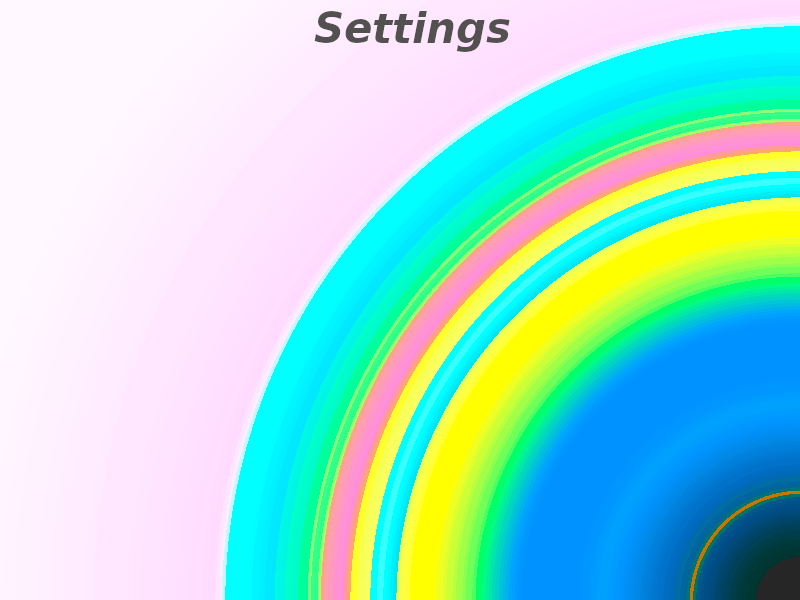
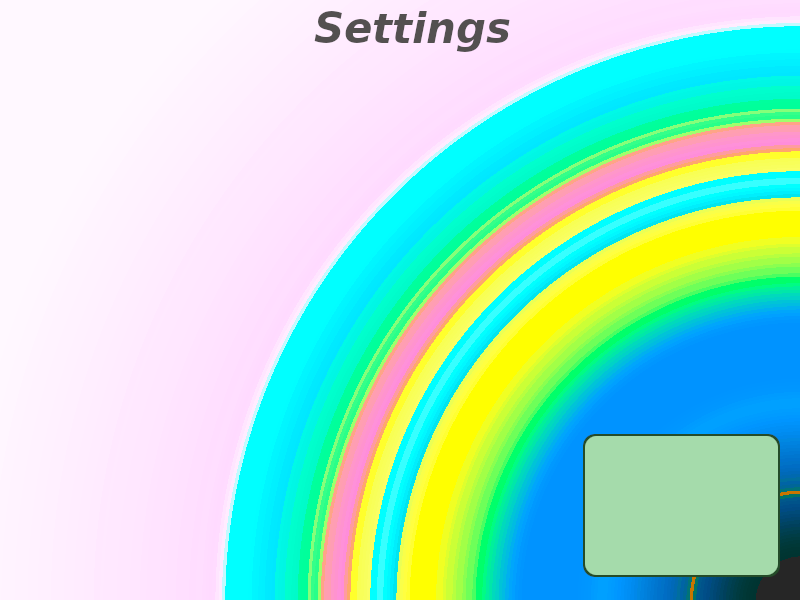
Implement audio settings menu

Changed region(s): [[0.7188, 0.72, 1.0, 0.96]]

diff --git a/src/Game/States/SettingsMenu.cpp b/src/Game/States/SettingsMenu.cpp
@@ -45,7 +45,12 @@ sf::VideoMode bestFullscreenMode() {
     return *best;
 }
 
+std::string volumeString() {
+    return "Volume: " + std::to_string(static_cast<int>(bl::audio::AudioSystem::getVolume())) + "%";
+}
+
 } // namespace
+
 using namespace bl::menu;
 using namespace core::input;
 
@@ -69,10 +74,15 @@ SettingsMenu::SettingsMenu(core::system::Systems& s)
 
     bgndTexture = textures.load(joinPath(Path, "background.png")).data;
     background.setTexture(*bgndTexture);
+    hint.setFont(font);
+    hint.setFillColor(sf::Color(65, 10, 0));
+    hint.setCharacterSize(18);
+    hint.setPosition(590.f, 440.f);
 
     const auto makeBack = [this, &font]() {
         Item::Ptr bi = TextItem::create("Back", font, sf::Color::Black, FontSize);
         bi->getSignal(Item::Activated).willAlwaysCall(std::bind(&SettingsMenu::back, this));
+        bi->getSignal(Item::Selected).willAlwaysCall([this]() { setHint(""); });
         return bi;
     };
 
@@ -81,13 +91,22 @@ SettingsMenu::SettingsMenu(core::system::Systems& s)
     videoItem->getSignal(Item::Activated).willAlwaysCall([this]() {
         enterState(MenuState::VideoMenu);
     });
+    videoItem->getSignal(Item::Selected).willAlwaysCall([this]() {
+        setHint("Settings related to the Peoplemon window.");
+    });
     Item::Ptr audioItem = TextItem::create("Audio", font, sf::Color::Black, FontSize);
     audioItem->getSignal(Item::Activated).willAlwaysCall([this]() {
         enterState(MenuState::AudioMenu);
     });
+    audioItem->getSignal(Item::Selected).willAlwaysCall([this]() {
+        setHint("Settings related to music and sounds.");
+    });
     Item::Ptr controlsItem = TextItem::create("Controls", font, sf::Color::Black, FontSize);
     controlsItem->getSignal(Item::Activated).willAlwaysCall([this]() {
         enterState(MenuState::ControlsTopMenu);
+    });
+    controlsItem->getSignal(Item::Selected).willAlwaysCall([this]() {
+        setHint("Change your controls for both keyboard/mouse and controller.");
     });
 
     topMenu.setRootItem(videoItem);
@@ -105,13 +124,23 @@ SettingsMenu::SettingsMenu(core::system::Systems& s)
     windowModeDropdownItem->getSignal(Item::Activated).willAlwaysCall([this]() {
         onWindowModeOpen();
     });
+    windowModeDropdownItem->getSignal(Item::Selected).willAlwaysCall([this]() {
+        setHint("Set whether to be fullscreen or windowed.");
+    });
     fullscreenItem = TextItem::create("Fullscreen", font, sf::Color::Black, FontSize);
     fullscreenItem->getSignal(Item::Activated).willAlwaysCall([this]() {
         onWindowModeChange(true);
     });
+    fullscreenItem->getSignal(Item::Selected).willAlwaysCall([this]() {
+        setHint("The Peoplemon window will be fullscreen.");
+    });
     windowedItem = TextItem::create("Windowed", font, sf::Color::Black, FontSize);
     windowedItem->getSignal(Item::Activated).willAlwaysCall([this]() {
         onWindowModeChange(false);
+    });
+    windowedItem->getSignal(Item::Selected).willAlwaysCall([this]() {
+        setHint("The Peoplemon window will be a regular window that can be moved, resized, "
+                "minimized, etc.");
     });
     windowModeDropdownItem->addOption(fullscreenItem);
     windowModeDropdownItem->addOption(windowedItem);
@@ -121,6 +150,10 @@ SettingsMenu::SettingsMenu(core::system::Systems& s)
         sf::Color::White, sf::Color::Black, FontSizeF, 2.f, FontSizeF * 0.4f, false);
     vsyncItem->getSignal(Item::Activated).willAlwaysCall([this]() { onVsyncUpdate(); });
     vsyncItem->setChecked(systems.engine().settings().windowParameters().vsyncEnabled());
+    vsyncItem->getSignal(Item::Selected).willAlwaysCall([this]() {
+        setHint("Vsync limits the render rate to your monitor refresh rate to prevent tearing. "
+                "Graphics will be smoother but there may be input delay.");
+    });
 
     videoMenu.setRootItem(windowModeDropdownItem);
     videoMenu.addItem(videoLabel, windowModeDropdownItem.get(), Item::Top);
@@ -132,10 +165,21 @@ SettingsMenu::SettingsMenu(core::system::Systems& s)
     // Audio menu
     Item::Ptr audioLabel = TextItem::create("Audio Settings", font, LabelColor, LabelSize);
     audioLabel->setSelectable(false);
-    muteItem = TextItem::create("Mute", font, sf::Color::Black, FontSize);
-    // TODO - make toggle
-    volumeItem = TextItem::create("Volume", font, sf::Color::Black, FontSize);
-    // TODO - tie into qty select
+    muteItem = ToggleTextItem::create("Mute", font, sf::Color::Black, FontSize);
+    muteItem->setChecked(bl::audio::AudioSystem::getMuted());
+    muteItem->getSignal(Item::Activated).willAlwaysCall([this]() {
+        bl::audio::AudioSystem::setMuted(muteItem->isChecked());
+    });
+    muteItem->getSignal(Item::Selected).willAlwaysCall([this]() {
+        setHint("Enable and disable all sounds and music.");
+    });
+    volumeItem = TextItem::create(volumeString(), font, sf::Color::Black, FontSize);
+    volumeItem->getSignal(Item::Activated).willAlwaysCall([this]() {
+        enterState(MenuState::AudioSelectVolume);
+    });
+    volumeItem->getSignal(Item::Selected).willAlwaysCall([this]() {
+        setHint("Sets the volume of all sounds and music.");
+    });
 
     audioMenu.setRootItem(muteItem);
     audioMenu.addItem(audioLabel, muteItem.get(), Item::Top);
@@ -150,9 +194,15 @@ SettingsMenu::SettingsMenu(core::system::Systems& s)
     kbmItem->getSignal(Item::Activated).willAlwaysCall([this]() {
         enterState(MenuState::ControlsKBMMenu);
     });
+    kbmItem->getSignal(Item::Selected).willAlwaysCall([this]() {
+        setHint("Configure your controls when using keyboard and mouse.");
+    });
     Item::Ptr padItem = TextItem::create("Controller", font, sf::Color::Black, FontSize);
     padItem->getSignal(Item::Activated).willAlwaysCall([this]() {
         enterState(MenuState::ControlsPadMenu);
+    });
+    padItem->getSignal(Item::Selected).willAlwaysCall([this]() {
+        setHint("Configure your controls when using a controller.");
     });
 
     controlsTopMenu.setRootItem(kbmItem);
@@ -166,6 +216,9 @@ SettingsMenu::SettingsMenu(core::system::Systems& s)
             TextItem::create(ctrlString(ctrl, kbm), font, sf::Color::Black, SmallSize);
         item->getSignal(Item::Activated).willAlwaysCall([this, ctrl, kbm]() {
             startBindControl(kbm, ctrl);
+        });
+        item->getSignal(Item::Selected).willAlwaysCall([this]() {
+            setHint("Select to rebind this control.");
         });
         return item;
     };
@@ -245,6 +298,7 @@ void SettingsMenu::activate(bl::engine::Engine& engine) {
     engine.inputSystem().getActor().addListener(*this);
     engine.renderSystem().cameras().pushCamera(
         bl::render::camera::StaticCamera::create(background.getGlobalBounds()));
+    enterState(MenuState::TopMenu);
 }
 
 void SettingsMenu::deactivate(bl::engine::Engine& engine) {
@@ -259,6 +313,7 @@ void SettingsMenu::render(bl::engine::Engine& engine, float) {
     engine.window().clear();
 
     engine.window().draw(background);
+    engine.window().draw(hint);
     switch (state) {
     case MenuState::TopMenu:
         topMenu.render(engine.window());
@@ -270,8 +325,9 @@ void SettingsMenu::render(bl::engine::Engine& engine, float) {
         break;
 
     case MenuState::AudioSelectVolume:
-        // TODO - render qty entry
-        [[fallthrough]];
+        audioMenu.render(engine.window());
+        volumeEntry.render(engine.window());
+        break;
     case MenuState::AudioMenu:
         audioMenu.render(engine.window());
         break;
@@ -298,34 +354,47 @@ void SettingsMenu::render(bl::engine::Engine& engine, float) {
 void SettingsMenu::enterState(MenuState s) {
     state = s;
 
+    Menu* sm = nullptr;
+
     switch (state) {
     case MenuState::TopMenu:
         inputDriver.drive(&topMenu);
+        sm = &topMenu;
         break;
     case MenuState::VideoMenu:
         inputDriver.drive(&videoMenu);
+        sm = &videoMenu;
         break;
     case MenuState::VideoSelectMode:
         // nothing
         break;
     case MenuState::AudioMenu:
         inputDriver.drive(&audioMenu);
+        sm = &audioMenu;
         break;
     case MenuState::AudioSelectVolume:
-        // TODO
+        volumeEntry.configure(0, 100, static_cast<int>(bl::audio::AudioSystem::getVolume()));
+        volumeEntry.setPosition({volumeItem->getPosition().x + volumeItem->getSize().x -
+                                     volumeEntry.getSize().x + audioMenu.getBounds().left + 20.f,
+                                 volumeItem->getPosition().y + audioMenu.getBounds().top + 20.f});
         break;
     case MenuState::ControlsTopMenu:
         inputDriver.drive(&controlsTopMenu);
+        sm = &controlsTopMenu;
         break;
     case MenuState::ControlsKBMMenu:
         inputDriver.drive(&controlsKbmMenu);
+        sm = &controlsKbmMenu;
         break;
     case MenuState::ControlsPadMenu:
         inputDriver.drive(&controlsPadMenu);
+        sm = &controlsPadMenu;
         break;
     default:
         break;
     }
+
+    if (sm != nullptr) { sm->setSelectedItem(const_cast<Item*>(sm->getSelectedItem())); }
 }
 
 void SettingsMenu::close() { systems.engine().popState(); }
@@ -338,7 +407,32 @@ bool SettingsMenu::observe(const bl::input::Actor&, unsigned int activatedContro
     else {
         switch (state) {
         case MenuState::AudioSelectVolume:
-            // TODO
+            switch (activatedControl) {
+            case Control::MoveUp:
+                volumeEntry.up(1, eventTriggered);
+                bl::audio::AudioSystem::setVolume(static_cast<float>(volumeEntry.curQty()));
+                break;
+            case Control::MoveRight:
+                volumeEntry.up(10, eventTriggered);
+                bl::audio::AudioSystem::setVolume(static_cast<float>(volumeEntry.curQty()));
+                break;
+            case Control::MoveDown:
+                volumeEntry.down(1, eventTriggered);
+                bl::audio::AudioSystem::setVolume(static_cast<float>(volumeEntry.curQty()));
+                break;
+            case Control::MoveLeft:
+                volumeEntry.down(10, eventTriggered);
+                bl::audio::AudioSystem::setVolume(static_cast<float>(volumeEntry.curQty()));
+                break;
+            case Control::Interact:
+                if (eventTriggered) {
+                    volumeItem->getTextObject().setString(volumeString());
+                    back();
+                }
+                break;
+            default:
+                break;
+            }
             break;
         case MenuState::ControlsBindingControl:
             // TODO
@@ -446,6 +540,11 @@ void SettingsMenu::onVsyncUpdate() {
     bl::engine::Settings::WindowParameters params = systems.engine().settings().windowParameters();
     params.withVSyncEnabled(vsyncItem->isChecked());
     systems.engine().updateExistingWindow(params);
+}
+
+void SettingsMenu::setHint(const std::string& m) {
+    hint.setString(m);
+    bl::interface::wordWrap(hint, 183.f);
 }
 
 } // namespace state

diff --git a/include/Game/States/SettingsMenu.hpp b/include/Game/States/SettingsMenu.hpp
@@ -82,6 +82,7 @@ private:
     MenuState state;
     bl::resource::Resource<sf::Texture>::Ref bgndTexture;
     sf::Sprite background;
+    sf::Text hint;
 
     core::input::MenuDriver inputDriver;
     bl::menu::Menu topMenu;
@@ -94,8 +95,9 @@ private:
     bl::menu::ToggleTextItem::Ptr vsyncItem;
 
     bl::menu::Menu audioMenu;
-    bl::menu::TextItem::Ptr muteItem;
+    bl::menu::ToggleTextItem::Ptr muteItem;
     bl::menu::TextItem::Ptr volumeItem;
+    core::system::hud::QtyEntry volumeEntry;
 
     bl::menu::Menu controlsTopMenu;
 
@@ -122,6 +124,7 @@ private:
     SettingsMenu(core::system::Systems& systems);
 
     void enterState(MenuState state);
+    void setHint(const std::string& message);
 
     void onWindowModeOpen();
     bool isFullscreen() const;

diff --git a/src/Core/Systems/HUD/QtyEntry.cpp b/src/Core/Systems/HUD/QtyEntry.cpp
@@ -66,12 +66,14 @@ int QtyEntry::curQty() const { return qty; }
 void QtyEntry::up(int q, bool ignore) {
     if (rateLimit(ignore)) return;
     qty = std::min(maxQty, qty + q);
+    bl::audio::AudioSystem::playOrRestartSound(Properties::MenuMoveSound());
     updateText();
 }
 
 void QtyEntry::down(int q, bool ignore) {
     if (rateLimit(ignore)) return;
     qty = std::max(minQty, qty - q);
+    bl::audio::AudioSystem::playOrRestartSound(Properties::MenuMoveSound());
     updateText();
 }
 
